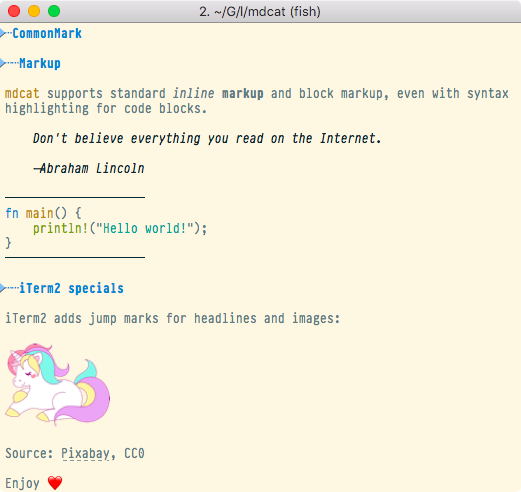
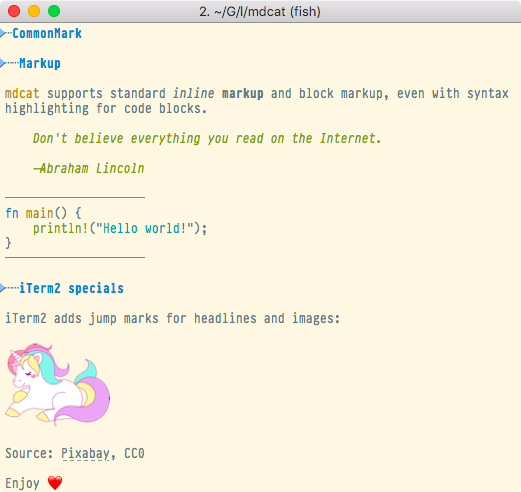
Update showcase screenshots

Changed region(s): [[0.0614, 0.2744, 0.737, 0.3049], [0.0614, 0.3354, 0.2764, 0.3659]]

diff --git a/README.md b/README.md
@@ -13,7 +13,8 @@ $ mdcat sample.md
 
 ![mdcat showcase with different colour themes](screenshots/side-by-side.png)
 
-[Dracula][] and [Solarized][] Light, with [PragmataPro][pp] in [iTerm2][].
+mdcat in [iTerm2][], with [Dracula][], and [Solarized][] Light and Dark (from
+left to right), and [PragmataPro][pp] as font.
 
 [crates-badge]: https://img.shields.io/crates/v/mdcat.svg
 [crates]: https://crates.io/crates/mdcat
